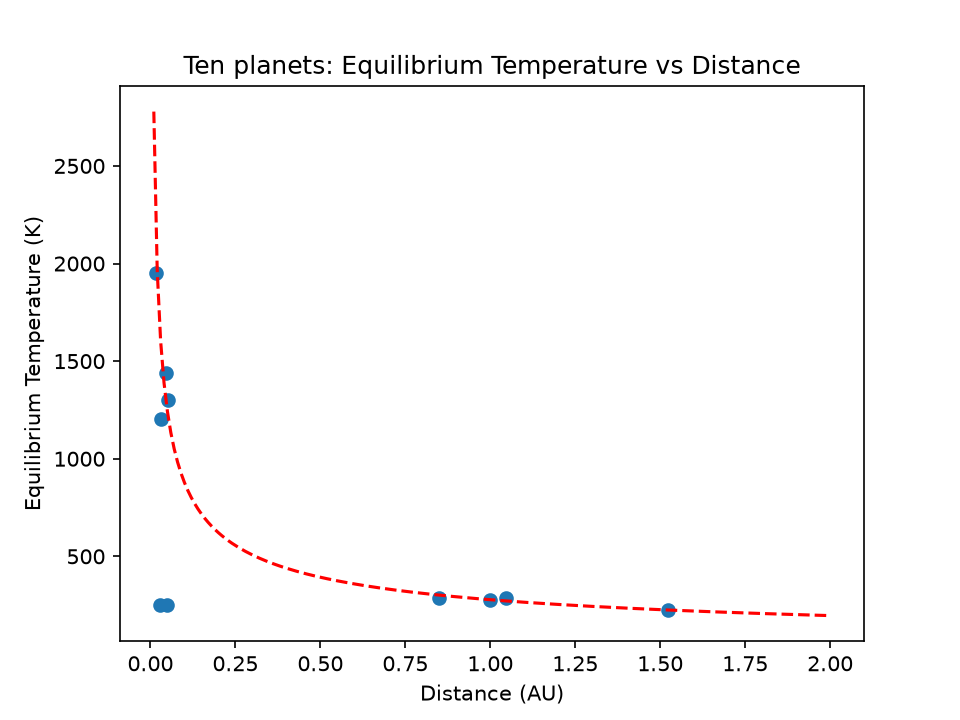
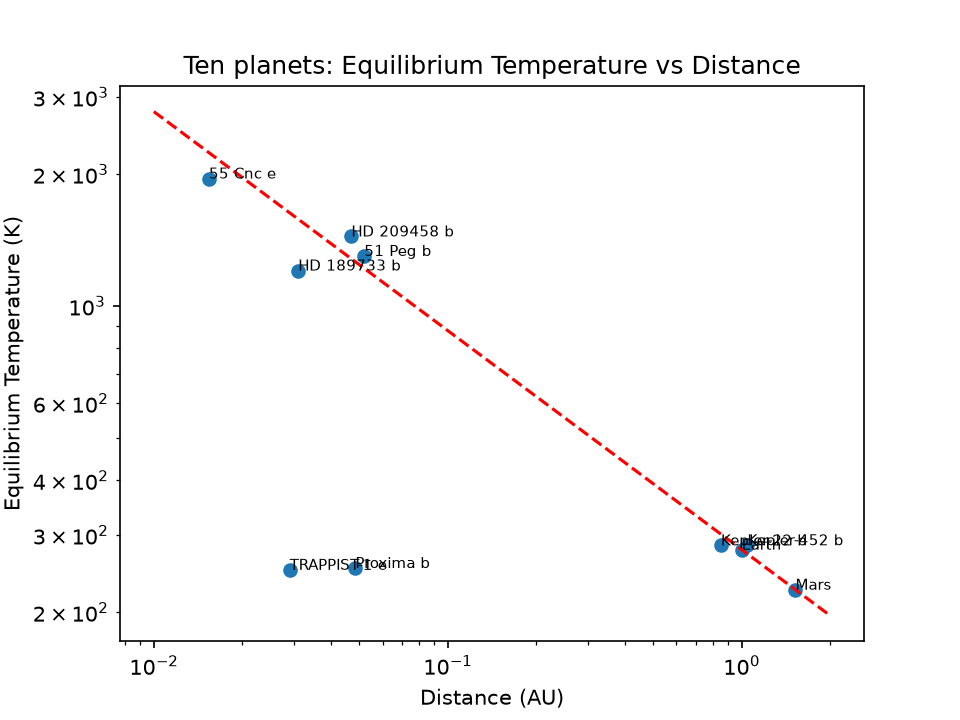
before teh agent

diff --git a/module-4/planets_plot.py b/module-4/planets_plot.py
@@ -33,11 +33,21 @@ if __name__ == "__main__":
     ax.set_xlabel("Distance (AU)") 
     ax.set_ylabel("Equilibrium Temperature (K)")
     plt.title("Ten planets: Equilibrium Temperature vs Distance") #Title
+    #step 3: use log scale for both axes
+    ax.set_xscale("log")
+    ax.set_yscale("log")
     ax.scatter(dist, T)
-    # SUN-LIKE STAR EQUILIBRIUM TEMPERATURE CURVE
+
+    #step 4: annotate each planet with its name
+    for n, x, y in zip(name, dist, T): ax.annotate(n, (x, y), fontsize=7)
+
+    # SUN-LIKE STAR EQUILIBRIUM TEMPERATURE CURVE (step 2)
     d = np.linspace(0.01, 2.0, 200)
     T_curve = t_eq(L_SUN, d * AU)
-    #the planets should not be on this temperature curve, but they should be below it. the planets with the smallest distances will be closest to the curve depending on how bright the plantet's star is.
+    #planets with L = 1 L_sun (Earth, Mars) lie on this curve; brighter stars put planets above it, dimmer ones below.
+    #T scales as L^(1/4), so the distance from the curve depends only on the star's luminosity, not on distance.
+
     ax.plot(d, T_curve, color='red', linestyle='--', label='Sun-like star') # Plot the sun-like star equilibrium temperature curve
+
     fig.savefig("module-4/planets.png", dpi=150)
     print("wrote module-4/planets.png")
